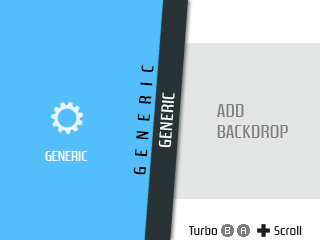
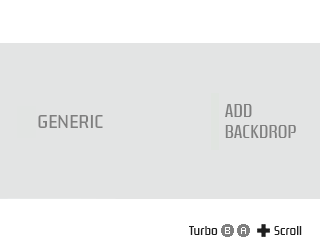
drawGrid: force showing linkLabel if skinBackdrop is missing
upd GameShow generic.png images

diff --git a/src/menu.cpp b/src/menu.cpp
@@ -582,7 +582,7 @@ void Menu::drawGrid() {
 
 			icon->blit(gmenu2x->s, {ix + iconPadding/2, iy + iconPadding/2, linkWidth - iconPadding, linkHeight - iconPadding}, HAlignCenter | VAlignMiddle);
 
-			if (gmenu2x->skinConfInt["linkLabel"]) {
+			if (gmenu2x->skinConfInt["linkLabel"] || i == (uint32_t)selLinkIndex() && gmenu2x->confInt["skinBackdrops"] && (gmenu2x->currBackdrop == gmenu2x->sc.getSkinFilePath("backdrops/generic.png", false) /*|| gmenu2x->currBackdrop == gmenu2x->confStr["wallpaper"]*/)) {
 				SDL_Rect labelRect;
 				labelRect.x = ix + 2 + linkWidth/2;
 				labelRect.y = iy + (linkHeight + min(linkHeight, icon->height()))/2;
